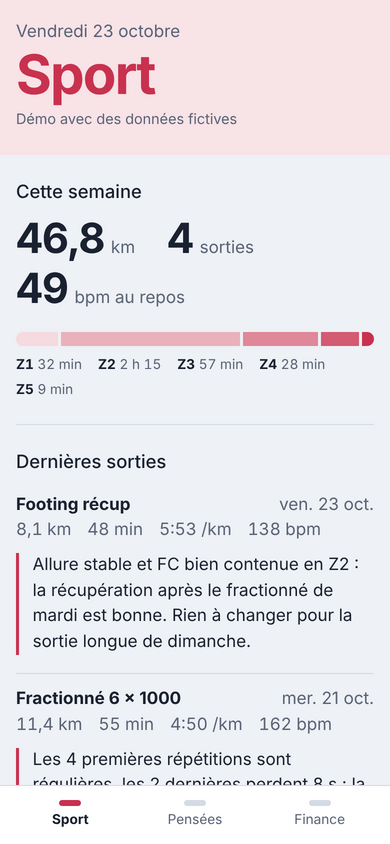
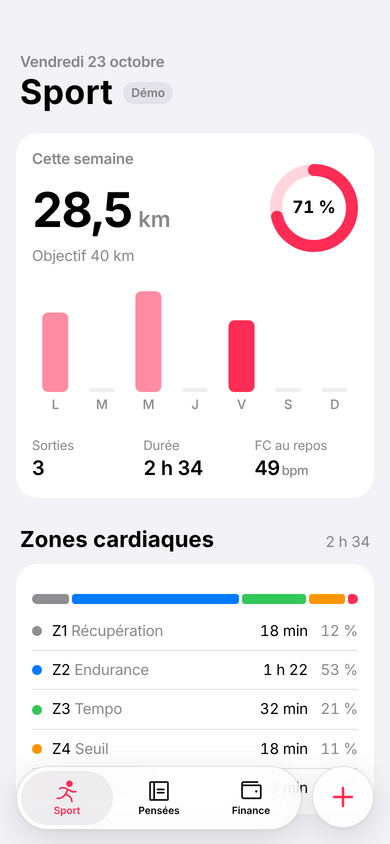
docs: refresh screenshots and stack
Claude-Session: https://claude.ai/code/session_01HXqik5JwzvJf41goW4vFZQ

Changed region(s): [[0.0308, 0.5237, 0.9538, 1.0], [0.0308, 0.0308, 0.9538, 0.4929], [0.9538, 0.9242, 0.9846, 0.955]]

diff --git a/README.md b/README.md
@@ -20,7 +20,7 @@ Les stats de course sont dans Garmin et Strava, les rêves dans les notes du té
 | --- | --- | --- |
 | Pensées | Noter un rêve ou une idée en 2 secondes avec l'Action Button de l'iPhone | ✅ |
 | Pensées | Journal filtrable des rêves et des notes | ✅ |
-| Finance | Saisir une dépense ou une entrée depuis l'Action Button | ✅ |
+| Finance | Saisir une dépense depuis l'Action Button ou le bouton + de l'app | ✅ |
 | Finance | Import automatique des paiements Apple Pay | ✅ |
 | Finance | Trier chaque dépense : essentielle, sociale ou superflue | ✅ |
 | Sport | Import des sorties Strava, FC, allures et zones | 🚧 |
@@ -123,4 +123,7 @@ Ce dépôt est public, mes données non. Elles vivent uniquement dans Firestore,
 
 ## Stack
 
-React 19, Vite, TypeScript, PWA (Workbox) · Firebase Auth, Firestore, Cloud Functions v2 (Node 22) · Zod, Vitest · GitHub Actions
+- **Interface** : React 19, Vite, TypeScript, PWA (Workbox). Look iOS natif : SF Pro sur Apple (Geist ailleurs), couleurs système d'Apple, gros titres, barre d'onglets flottante en verre.
+- **Composants** : [Motion](https://motion.dev) pour les animations, [NumberFlow](https://number-flow.barvian.me) pour les montants animés, [Recharts](https://recharts.org) pour les graphiques, [Vaul](https://vaul.emilkowal.ski) pour la feuille de saisie, [Sonner](https://sonner.emilkowal.ski) pour les notifications, [Phosphor](https://phosphoricons.com) pour les icônes.
+- **Backend** : Firebase Auth, Firestore, Cloud Functions v2 (Node 22), Zod, Vitest.
+- **Outillage** : GitHub Actions (CI et démo sur GitHub Pages). La démo ne télécharge jamais Firebase : le code connecté est chargé à la demande.
